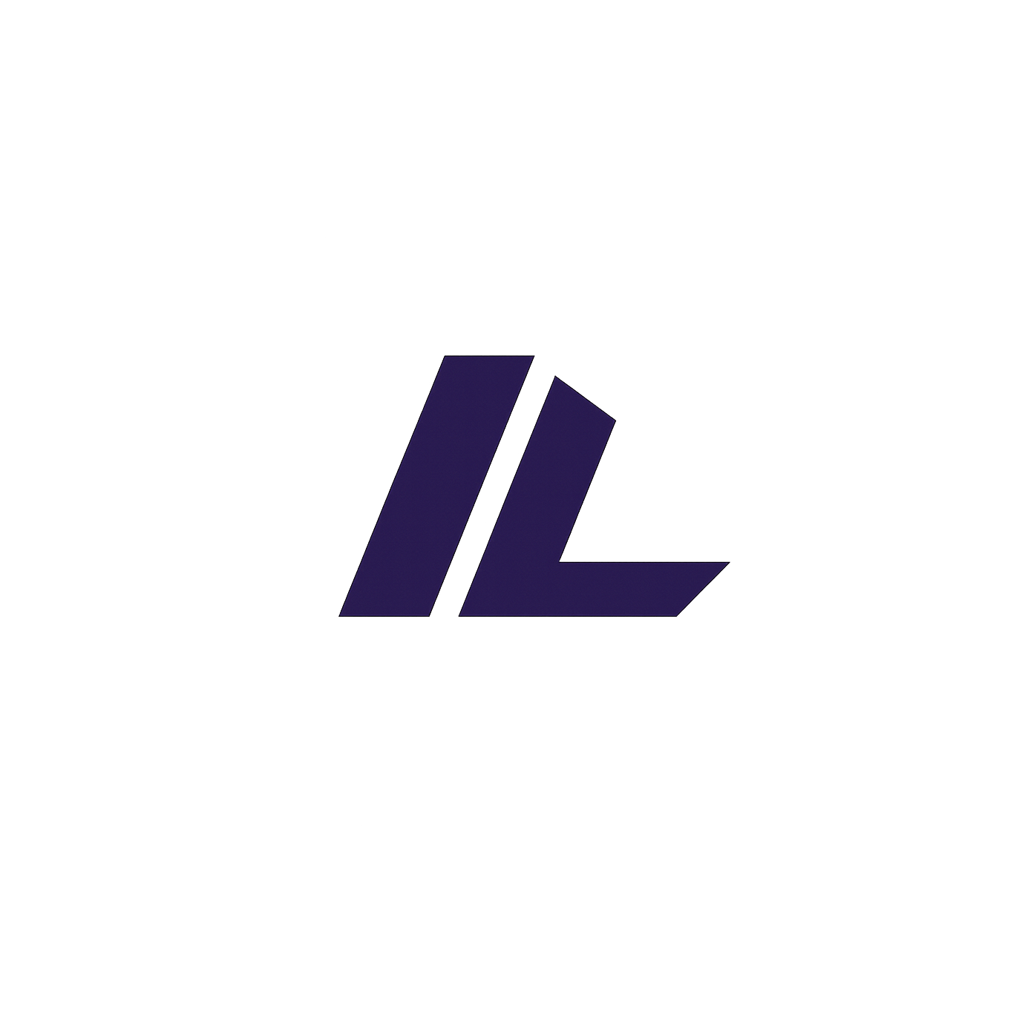
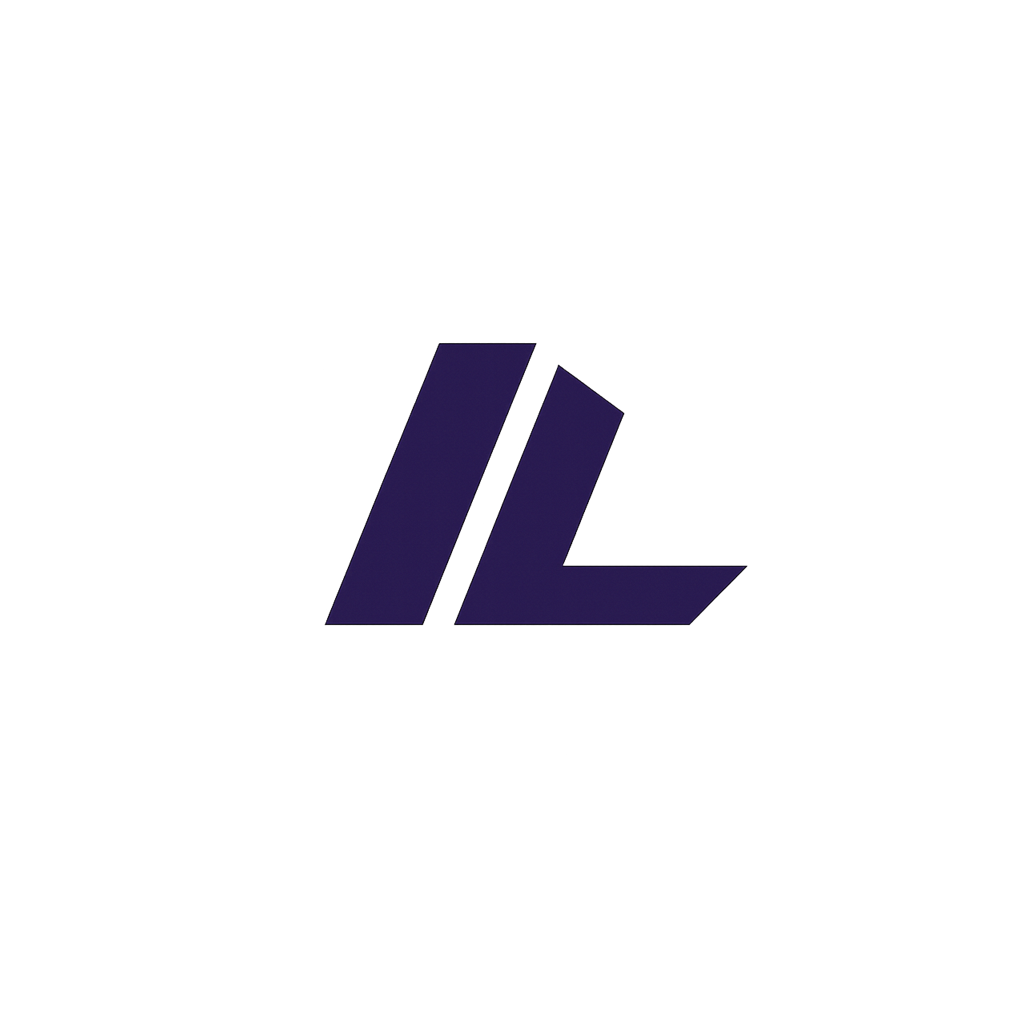
match inputlag header chrome and app branding

diff --git a/src/App.jsx b/src/App.jsx
@@ -1068,21 +1068,16 @@ export default function App() {
     <div className={rendering ? 'studio-app is-rendering' : 'studio-app'}>
       <header className="topbar split-topbar">
         <div className="app-logo">
-          <img src="./curve-editor-logo-transparent.png" alt="Inputlag Curve Editor" />
+          <img src="./curve-editor-logo-purple.png" alt="InputLag Render Studio" />
         </div>
         <div className="topbar-slash" />
-        <div className="topbar-center-mark"><img src="./app-icon.png" alt="" /></div>
+        <div className="topbar-center-mark"><img src="./center-il-purple.png" alt="" /></div>
         <ProjectMeta project={project} />
         <div className="top-actions">
           <button className="icon-action ready-presets-top" title="Ready Presets" onClick={() => setShowPresets(true)}><Sparkles size={17} /></button>
           <button className="icon-action" title="Code" onClick={() => setShowCode((value) => !value)}><Code2 size={17} /></button>
           <button onClick={() => setShowNew(true)}><Plus size={16} /> New</button>
           <button className="render-action" disabled={rendering} onClick={exportMov}><Download size={16} /> Render MOV</button>
-        </div>
-        <div className="window-controls">
-          <button title="Minimize" onClick={() => window.curvy?.minimize?.()}><Minus size={13} /></button>
-          <button title="Maximize" onClick={() => window.curvy?.maximize?.()}><Square size={12} /></button>
-          <button title="Close" onClick={() => window.curvy?.close?.()}><X size={14} /></button>
         </div>
       </header>
 

diff --git a/src/styles.css b/src/styles.css
@@ -3028,27 +3028,29 @@ select,
 
 /* top header, value inputs, and clean preview controls */
 .topbar {
-  height: 42px !important;
+  height: 48px !important;
   position: relative;
   border-bottom: 1px solid rgba(255,255,255,0.08);
   background: #050507 !important;
-  padding: 0 10px 0 16px !important;
+  padding: 0 14px 0 18px !important;
 }
 
 .app-logo img {
-  width: 226px !important;
+  width: 158px !important;
   max-height: 36px !important;
+  object-fit: contain;
+  object-position: left center;
 }
 
 .app-logo {
-  min-width: 226px !important;
+  min-width: 172px !important;
 }
 
 .topbar-center-mark {
   position: absolute;
   left: 50%;
   top: 50%;
-  width: 32px;
+  width: 38px;
   height: 32px;
   display: grid;
   place-items: center;
@@ -3057,16 +3059,14 @@ select,
 }
 
 .topbar-center-mark img {
-  width: 30px;
-  height: 30px;
+  width: 34px;
+  height: 28px;
   object-fit: contain;
-  border-radius: 8px;
+  filter: drop-shadow(0 0 6px rgba(92,52,180,0.24));
 }
 
 .window-controls {
-  height: 32px;
-  gap: 6px;
-  padding-left: 8px;
+  display: none !important;
 }
 
 .window-controls button {
